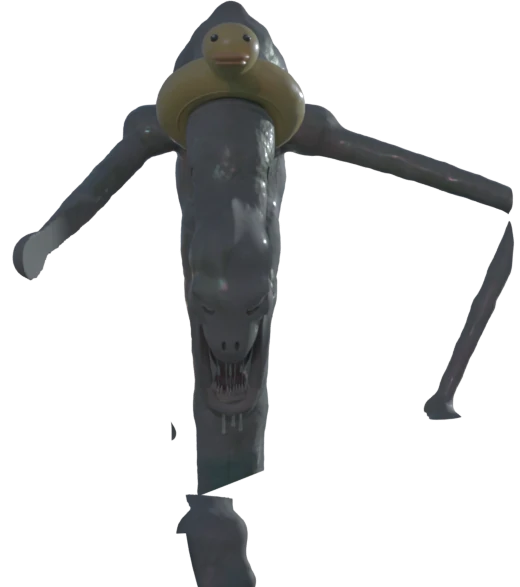
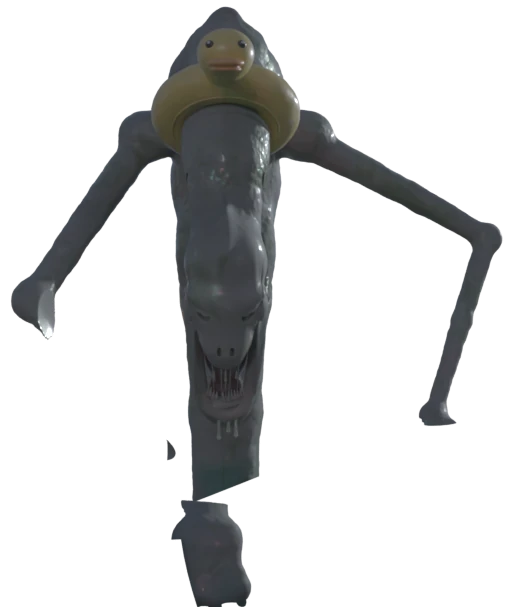
Gulpy: braccia unite dopo il taglio della testa (l'avambraccio davanti alla faccia non sparisce più)
Claude-Session: https://claude.ai/code/session_01EnpEiCdqMobb6kXAdCVCvL

diff --git a/tools/render/gulpy.py b/tools/render/gulpy.py
@@ -60,35 +60,8 @@ def _elbow(sh, wr, side, L1, L2, out=None):
     return (sh + wr) / 2 + o * b
 
 
-def body_field(grip=None):
-    """grip: None (braccia che pendono) oppure (polso sinistro, polso destro) in coordinate locali:
-    le mani afferrano il bordo e le dita si piegano verso l'interno della barca."""
-    back = chain([V(0, 0.24, -0.20), V(0, 0.22, 0.95), V(0, 0.17, 1.55), V(0, 0.05, 2.05), V(0, -0.15, 2.42), V(0, -0.30, 2.52)], [0.17, 0.16, 0.18, 0.19, 0.17, 0.125], k=0.06)
-    chest = sdf.ellipsoid(V(0, -0.07, 1.80), (0.185, 0.14, 0.34))
-    belly = sdf.ellipsoid(V(0, 0.02, 1.25), (0.15, 0.12, 0.25))
-    sh = sdf.union(*[sdf.ellipsoid(V(s * 0.25, -0.05, 2.25), (0.11, 0.12, 0.09)) for s in (-1, 1)], k=0.1)
-    acromion = sdf.union(*[sdf.sphere(V(s * 0.31, -0.06, 2.27), 0.045) for s in (-1, 1)])
-    clav = sdf.union(*[sdf.capsule(V(s * 0.03, -0.20, 2.17), V(s * 0.28, -0.12, 2.27), 0.018) for s in (-1, 1)])
-    neck = chain([V(0, -0.28, 2.50), V(0, -0.52, 2.46), V(0, -0.74, 2.24), V(0, -0.84, 2.03)], [0.10, 0.093, 0.095, 0.085], k=0.04)
-    # carne gonfia sopra e sotto il salvagente che stringe
-    bulge = sdf.union(sdf.sphere(RING_C - RING_AXIS * 0.072, 0.108), sdf.sphere(RING_C + RING_AXIS * 0.072, 0.105), k=0.03)
-    # costole: archi in rilievo sul davanti del torace, sterno, clavicole
-    ribs = []
-    for i in range(7):
-        z = 1.56 + i * 0.072
-        w = 0.17 - 0.004 * i
-        pts = [V(-w, 0.02, z + 0.02), V(-w * 0.75, -0.13, z - 0.005), V(-0.045, -0.205, z - 0.04), V(0.045, -0.205, z - 0.04), V(w * 0.75, -0.13, z - 0.005), V(w, 0.02, z + 0.02)]
-        ribs.append(hair_clump(pts, 0.010, 0.0095))
-    sternum = chain([V(0, -0.205, 1.64), V(0, -0.21, 2.12)], [0.011, 0.014], k=0.01)
-    spine = []
-    sp = [V(0, 0.17, 1.55), V(0, 0.05, 2.05), V(0, -0.15, 2.42), V(0, -0.30, 2.52)]
-    for i in range(9):
-        t = i / 8
-        j = min(int(t * 3), 2)
-        u = t * 3 - j
-        c = sp[j] * (1 - u) + sp[j + 1] * u
-        n = unit(V(0, 1.0 - 0.9 * t, 0.25 + 1.2 * t))
-        spine.append(sdf.sphere(c + n * (0.18 - 0.05 * t), 0.036))
+def arm_parts(grip=None):
+    """Braccia, mani e dita (pezzi da unire)."""
     arms = []
     for i, s in enumerate((-1, 1)):
         sh_p = V(s * SHOULDER[0], SHOULDER[1], SHOULDER[2])
@@ -115,7 +88,50 @@ def body_field(grip=None):
             arms.append(hair_clump([wr, k1, k2, k3], 0.019, 0.008))
             arms.append(sdf.sphere(k1, 0.0165))
             arms.append(sdf.sphere(k2, 0.0125))
-    body = sdf.union(back, chest, belly, sh, acromion, clav, neck, bulge, *spine, *arms, k=0.045)
+    return arms
+
+
+def arms_field(grip=None):
+    """Le braccia da sole, con la stessa pelle bitorzoluta del corpo."""
+    a = sdf.union(*arm_parts(grip), k=0.045)
+    a = sdf.displace(a, skin.bumps(51, 0.05, 0.004), 1.0)
+    return sdf.displace(a, skin.bumps(52, 0.012, 0.0012), 1.0)
+
+
+def body_field(grip=None, with_arms=True):
+    """grip: None (braccia che pendono) oppure (polso sinistro, polso destro) in coordinate locali:
+    le mani afferrano il bordo e le dita si piegano verso l'interno della barca.
+    with_arms=False: solo il tronco (le braccia si aggiungono a parte, vedi build)."""
+    back = chain([V(0, 0.24, -0.20), V(0, 0.22, 0.95), V(0, 0.17, 1.55), V(0, 0.05, 2.05), V(0, -0.15, 2.42), V(0, -0.30, 2.52)], [0.17, 0.16, 0.18, 0.19, 0.17, 0.125], k=0.06)
+    chest = sdf.ellipsoid(V(0, -0.07, 1.80), (0.185, 0.14, 0.34))
+    belly = sdf.ellipsoid(V(0, 0.02, 1.25), (0.15, 0.12, 0.25))
+    sh = sdf.union(*[sdf.ellipsoid(V(s * 0.25, -0.05, 2.25), (0.11, 0.12, 0.09)) for s in (-1, 1)], k=0.1)
+    acromion = sdf.union(*[sdf.sphere(V(s * 0.31, -0.06, 2.27), 0.045) for s in (-1, 1)])
+    clav = sdf.union(*[sdf.capsule(V(s * 0.03, -0.20, 2.17), V(s * 0.28, -0.12, 2.27), 0.018) for s in (-1, 1)])
+    neck = chain([V(0, -0.28, 2.50), V(0, -0.52, 2.46), V(0, -0.74, 2.24), V(0, -0.84, 2.03)], [0.10, 0.093, 0.095, 0.085], k=0.04)
+    # carne gonfia sopra e sotto il salvagente che stringe
+    bulge = sdf.union(sdf.sphere(RING_C - RING_AXIS * 0.072, 0.108), sdf.sphere(RING_C + RING_AXIS * 0.072, 0.105), k=0.03)
+    # costole: archi in rilievo sul davanti del torace, sterno, clavicole
+    ribs = []
+    for i in range(7):
+        z = 1.56 + i * 0.072
+        w = 0.17 - 0.004 * i
+        pts = [V(-w, 0.02, z + 0.02), V(-w * 0.75, -0.13, z - 0.005), V(-0.045, -0.205, z - 0.04), V(0.045, -0.205, z - 0.04), V(w * 0.75, -0.13, z - 0.005), V(w, 0.02, z + 0.02)]
+        ribs.append(hair_clump(pts, 0.010, 0.0095))
+    sternum = chain([V(0, -0.205, 1.64), V(0, -0.21, 2.12)], [0.011, 0.014], k=0.01)
+    spine = []
+    sp = [V(0, 0.17, 1.55), V(0, 0.05, 2.05), V(0, -0.15, 2.42), V(0, -0.30, 2.52)]
+    for i in range(9):
+        t = i / 8
+        j = min(int(t * 3), 2)
+        u = t * 3 - j
+        c = sp[j] * (1 - u) + sp[j + 1] * u
+        n = unit(V(0, 1.0 - 0.9 * t, 0.25 + 1.2 * t))
+        spine.append(sdf.sphere(c + n * (0.18 - 0.05 * t), 0.036))
+    parts = [back, chest, belly, sh, acromion, clav, neck, bulge, *spine]
+    if with_arms:
+        parts += arm_parts(grip)
+    body = sdf.union(*parts, k=0.045)
     body = sdf.union(body, *ribs, sternum, k=0.022)
     # ventre incavato sotto le costole
     body = sdf.subtract(body, sdf.ellipsoid(V(0, -0.24, 1.40), (0.13, 0.06, 0.12)), k=0.06)
@@ -273,10 +289,13 @@ def build(grip=None, viewer=None, lo=None, hi=None):
                             vein=(0.12, 0.13, 0.18), rough=0.68, sss=0.10, scale=1.3)
     # corpo e testa sono lo stesso campo, tagliato al salvagente (la cucitura resta sotto l'anello)
     head_w = HEAD.field(head_local())
-    full = sdf.union(body_field(grip), head_w, k=0.035)
+    # tronco e testa sono lo stesso campo, tagliato al salvagente; le braccia si uniscono dopo il taglio,
+    # così una mano che passa davanti alla faccia non viene tagliata via con la testa
+    full = sdf.union(body_field(grip, with_arms=False), head_w, k=0.035)
     head_zone = sdf.intersect(above(RING_C, RING_AXIS), sdf.sphere(HEAD.pos, 0.55))
     head_zone2 = sdf.intersect(above(RING_C - RING_AXIS * 0.01, RING_AXIS), sdf.sphere(HEAD.pos, 0.56))
-    body = sdf_object('GulpyBody', sdf.subtract(full, head_zone), lo if lo is not None else V(-0.62, -1.0, -0.02),
+    trunk = sdf.union(sdf.subtract(full, head_zone), arms_field(grip), k=0.045)
+    body = sdf_object('GulpyBody', trunk, lo if lo is not None else V(-0.62, -1.0, -0.02),
                       hi if hi is not None else V(0.62, 0.48, 2.72), res=rb, banded=True)
     body.data.materials.append(sk)
     head = sdf_object('GulpyHead', sdf.intersect(full, head_zone2), V(-0.14, -1.12, 1.45), V(0.14, -0.58, 2.40), res=rh,
